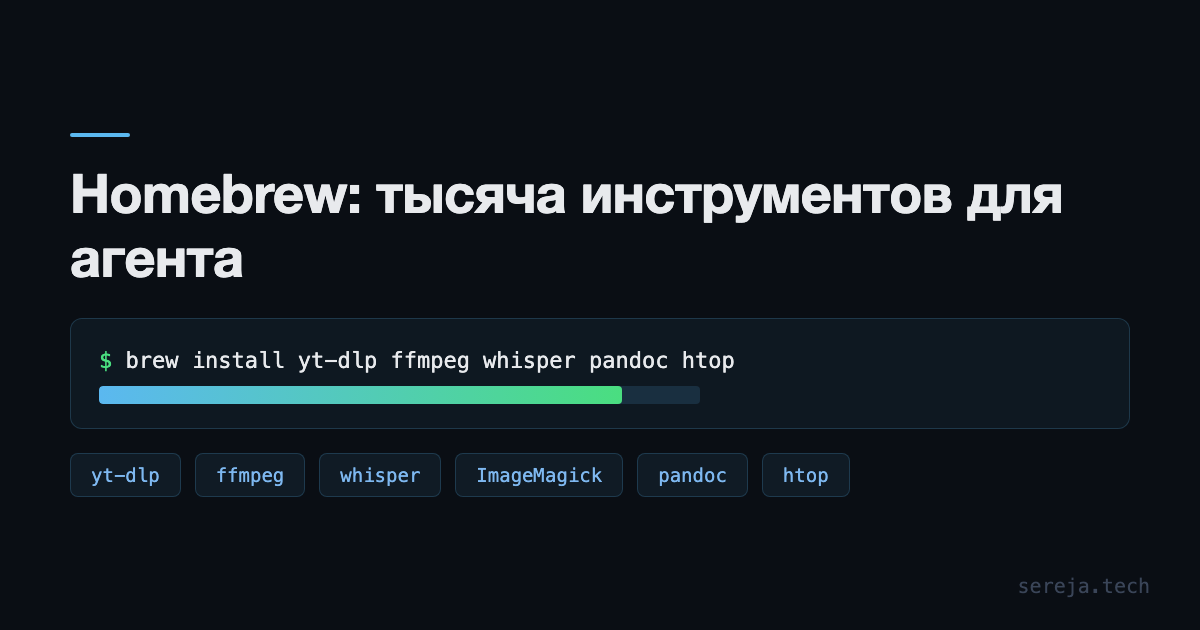
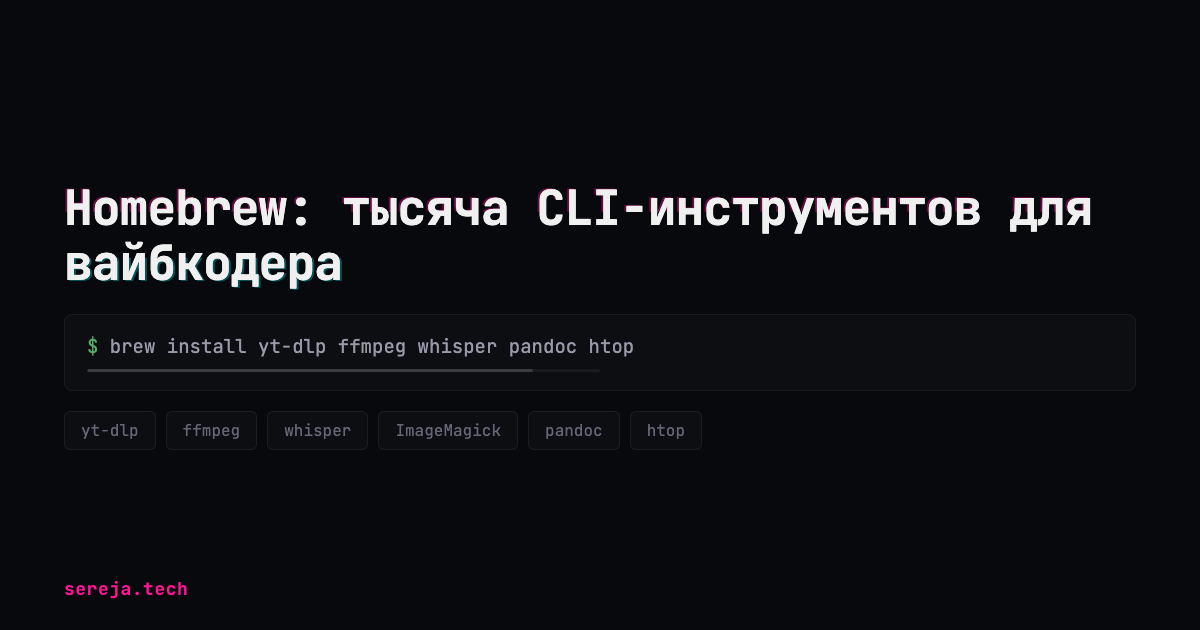
feat(og-preview): redesign template with glitch aesthetic
JetBrains Mono font, subtle pink/cyan glitch on title,
deeppink accent only on domain. Rewrote generate.sh to use
Python for reliable template substitution.

diff --git a/scripts/og-preview/template.html b/scripts/og-preview/template.html
@@ -1,0 +1,152 @@
+<!DOCTYPE html>
+<html>
+<head>
+<meta charset="utf-8">
+<style>
+  @import url('https://fonts.googleapis.com/css2?family=JetBrains+Mono:wght@400;700&display=swap');
+
+  * { margin: 0; padding: 0; box-sizing: border-box; }
+  body {
+    width: 1200px;
+    height: 630px;
+    background: #08090c;
+    font-family: 'JetBrains Mono', 'SF Mono', monospace;
+    display: flex;
+    flex-direction: column;
+    justify-content: center;
+    padding: 48px 64px;
+    overflow: hidden;
+    position: relative;
+  }
+
+  /* Glitch title */
+  .title-wrap {
+    position: relative;
+    z-index: 2;
+  }
+
+  .title {
+    font-size: 48px;
+    font-weight: 700;
+    color: #f0f0f0;
+    line-height: 1.15;
+    letter-spacing: -1px;
+    position: relative;
+  }
+
+  /* Glitch — pink only on top slice, cyan on bottom, both subtle */
+  .title::before,
+  .title::after {
+    content: attr(data-text);
+    position: absolute;
+    top: 0; left: 0; right: 0;
+    overflow: hidden;
+  }
+  .title::before {
+    color: rgba(255, 20, 147, 0.4);
+    clip-path: polygon(0 0, 100% 0, 100% 30%, 0 30%);
+    transform: translate(-2px, -1px);
+    z-index: -1;
+  }
+  .title::after {
+    color: rgba(0, 255, 255, 0.3);
+    clip-path: polygon(0 70%, 100% 70%, 100% 100%, 0 100%);
+    transform: translate(2px, 1px);
+    z-index: -1;
+  }
+
+  .subtitle {
+    font-size: 18px;
+    color: #445;
+    margin-top: 14px;
+    line-height: 1.4;
+    max-width: 900px;
+    position: relative;
+    z-index: 2;
+  }
+
+  /* Terminal — neutral */
+  .terminal {
+    background: rgba(255, 255, 255, 0.02);
+    border: 1px solid rgba(255, 255, 255, 0.06);
+    border-radius: 8px;
+    padding: 18px 22px;
+    font-size: 19px;
+    line-height: 1.5;
+    color: #556;
+    margin-top: 24px;
+    position: relative;
+    z-index: 2;
+  }
+  .terminal .prompt { color: #5a6; }
+  .terminal .cmd { color: #99a; }
+  .terminal .progress-bar {
+    margin-top: 8px;
+    height: 3px;
+    background: rgba(255, 255, 255, 0.05);
+    border-radius: 2px;
+    overflow: hidden;
+    width: 50%;
+  }
+  .terminal .progress-fill {
+    height: 100%;
+    width: 87%;
+    background: rgba(255, 255, 255, 0.15);
+    border-radius: 2px;
+  }
+
+  /* Tool badges — neutral */
+  .tools {
+    display: flex;
+    gap: 10px;
+    margin-top: 20px;
+    flex-wrap: wrap;
+    position: relative;
+    z-index: 2;
+  }
+  .tool {
+    border: 1px solid rgba(255, 255, 255, 0.07);
+    border-radius: 6px;
+    padding: 8px 16px;
+    font-size: 16px;
+    color: #667;
+    background: rgba(255, 255, 255, 0.02);
+  }
+
+  .visual {
+    font-size: 64px;
+    margin-bottom: 16px;
+    line-height: 1;
+    position: relative;
+    z-index: 2;
+  }
+
+  /* Domain — THE accent, deeppink */
+  .domain {
+    position: absolute;
+    bottom: 30px;
+    left: 64px;
+    font-size: 18px;
+    color: deeppink;
+    font-weight: 700;
+    z-index: 3;
+    letter-spacing: 0.5px;
+  }
+
+  .hidden { display: none; }
+</style>
+</head>
+<body>
+  <div class="visual hidden" id="visual">{{VISUAL}}</div>
+  <div class="title-wrap">
+    <div class="title" id="title" data-text="{{TITLE}}">{{TITLE}}</div>
+  </div>
+  <div class="subtitle hidden" id="subtitle">{{SUBTITLE}}</div>
+  <div class="terminal hidden" id="terminal">
+    <div><span class="prompt">$</span> <span class="cmd" id="command">{{COMMAND}}</span></div>
+    <div class="progress-bar"><div class="progress-fill"></div></div>
+  </div>
+  <div class="tools hidden" id="tools">{{TOOLS}}</div>
+  <div class="domain">sereja.tech</div>
+</body>
+</html>

diff --git a/CLAUDE.md b/CLAUDE.md
@@ -16,6 +16,7 @@
 |------|---------|
 | Dev | `hugo server -D` |
 | Build | `hugo build` |
+| OG preview | `./scripts/og-preview/generate.sh --title "..." --output static/images/blog/{slug}-preview.png` |
 | Static preview | `python3 -m http.server` |
 
 ## Architecture
@@ -25,6 +26,7 @@
 | `content/blog/*.md` | Статьи |
 | `layouts/` | Hugo шаблоны |
 | `static/` | JS, images |
+| `scripts/og-preview/` | OG-превью генератор (HTML → Playwright → PNG 1200×630) |
 | `hugo.toml` | Конфиг Hugo |
 | `index.html` | Legacy главная (вне Hugo) |
 
@@ -32,10 +34,13 @@
 
 Статьи через skill `blog-post`:
 1. `content/blog/{slug}.md` + frontmatter
-2. `hugo build` → `public/`
+2. OG-превью: `./scripts/og-preview/generate.sh --title "..." [--command "..." --tools "a,b,c" --subtitle "..."] --output static/images/blog/{slug}-preview.png`
+3. `hugo build` → `public/`
 
-Frontmatter: title, date, description, tags.
+Frontmatter: title, date, description, tags, image.
 SEO: title ≤60 chars, description ≤160 chars.
+
+OG Preview: всегда генерировать через `scripts/og-preview/generate.sh`. Опции: `--title` (обязательно), `--subtitle`, `--command`, `--tools` (через запятую), `--visual` (эмодзи). Результат: 1200×630 PNG.
 
 Permalinks: `/blog/:filename`. RSS только для blog.
 
